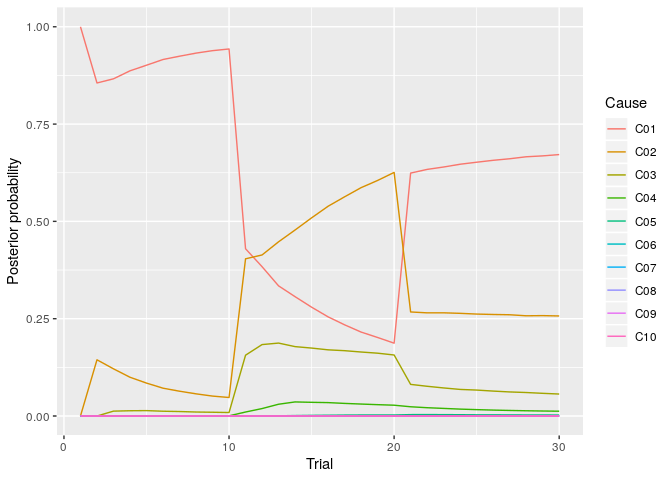
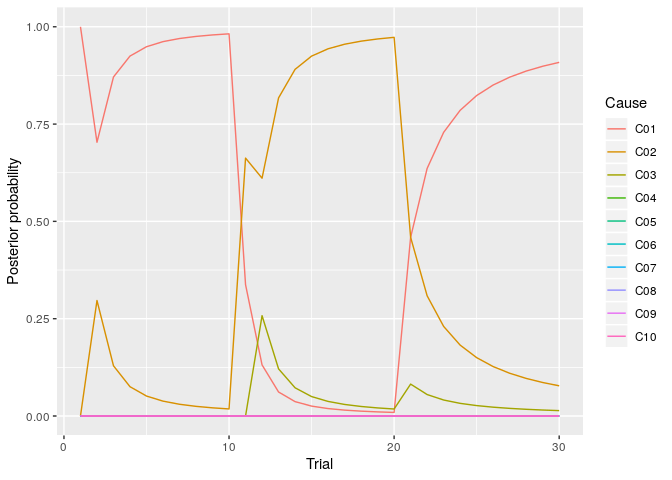
update

diff --git a/README.md b/README.md
@@ -56,13 +56,12 @@ X <- cbind(US, CS, Context)
 ```
 
 You can simulate the conditioned response using infer\_lcm(). I simulate
-the conditioned response setting the alpha = 0.4 and the number of
-particles = 1000. The alpha is the concentrate parameter of the Chinese
-Restaurant Process.
+the conditioned response setting the alpha = 0.4 . The alpha is the
+concentrate parameter of the Chinese Restaurant Process.
 
 ``` r
 library(lcmr)
-sim_res <- infer_lcm(X = X, opts = list(c_alpha = 0.4, M = 1000))
+sim_res <- infer_lcm(X = X, opts = list(c_alpha = 1))
 ```
 
 You can the plot of change of conditioned response through the trials
@@ -205,9 +204,6 @@ following argument for model fitting:
 
   - parameter\_range: range of parameter(a\_L, a\_U, e\_L, e\_U)
 
-  - parallel: 0 = single, 1 = parallel (parallel processing is not fast
-    to compute at this time)
-
   - stimation\_method: 0 = optim or optimize(lcm), 1 = post mean(only
     latent cause model)
 
@@ -216,9 +212,7 @@ following argument for model fitting:
 ``` r
 results <- fit_lcm(data, 
                    model = 1, 
-                   opts = list(M = 1000), 
                    parameter_range = list(a_L = 0, a_U = 15),
-                   parallel = 0, 
                    estimation_method = 0)
 ```
 
